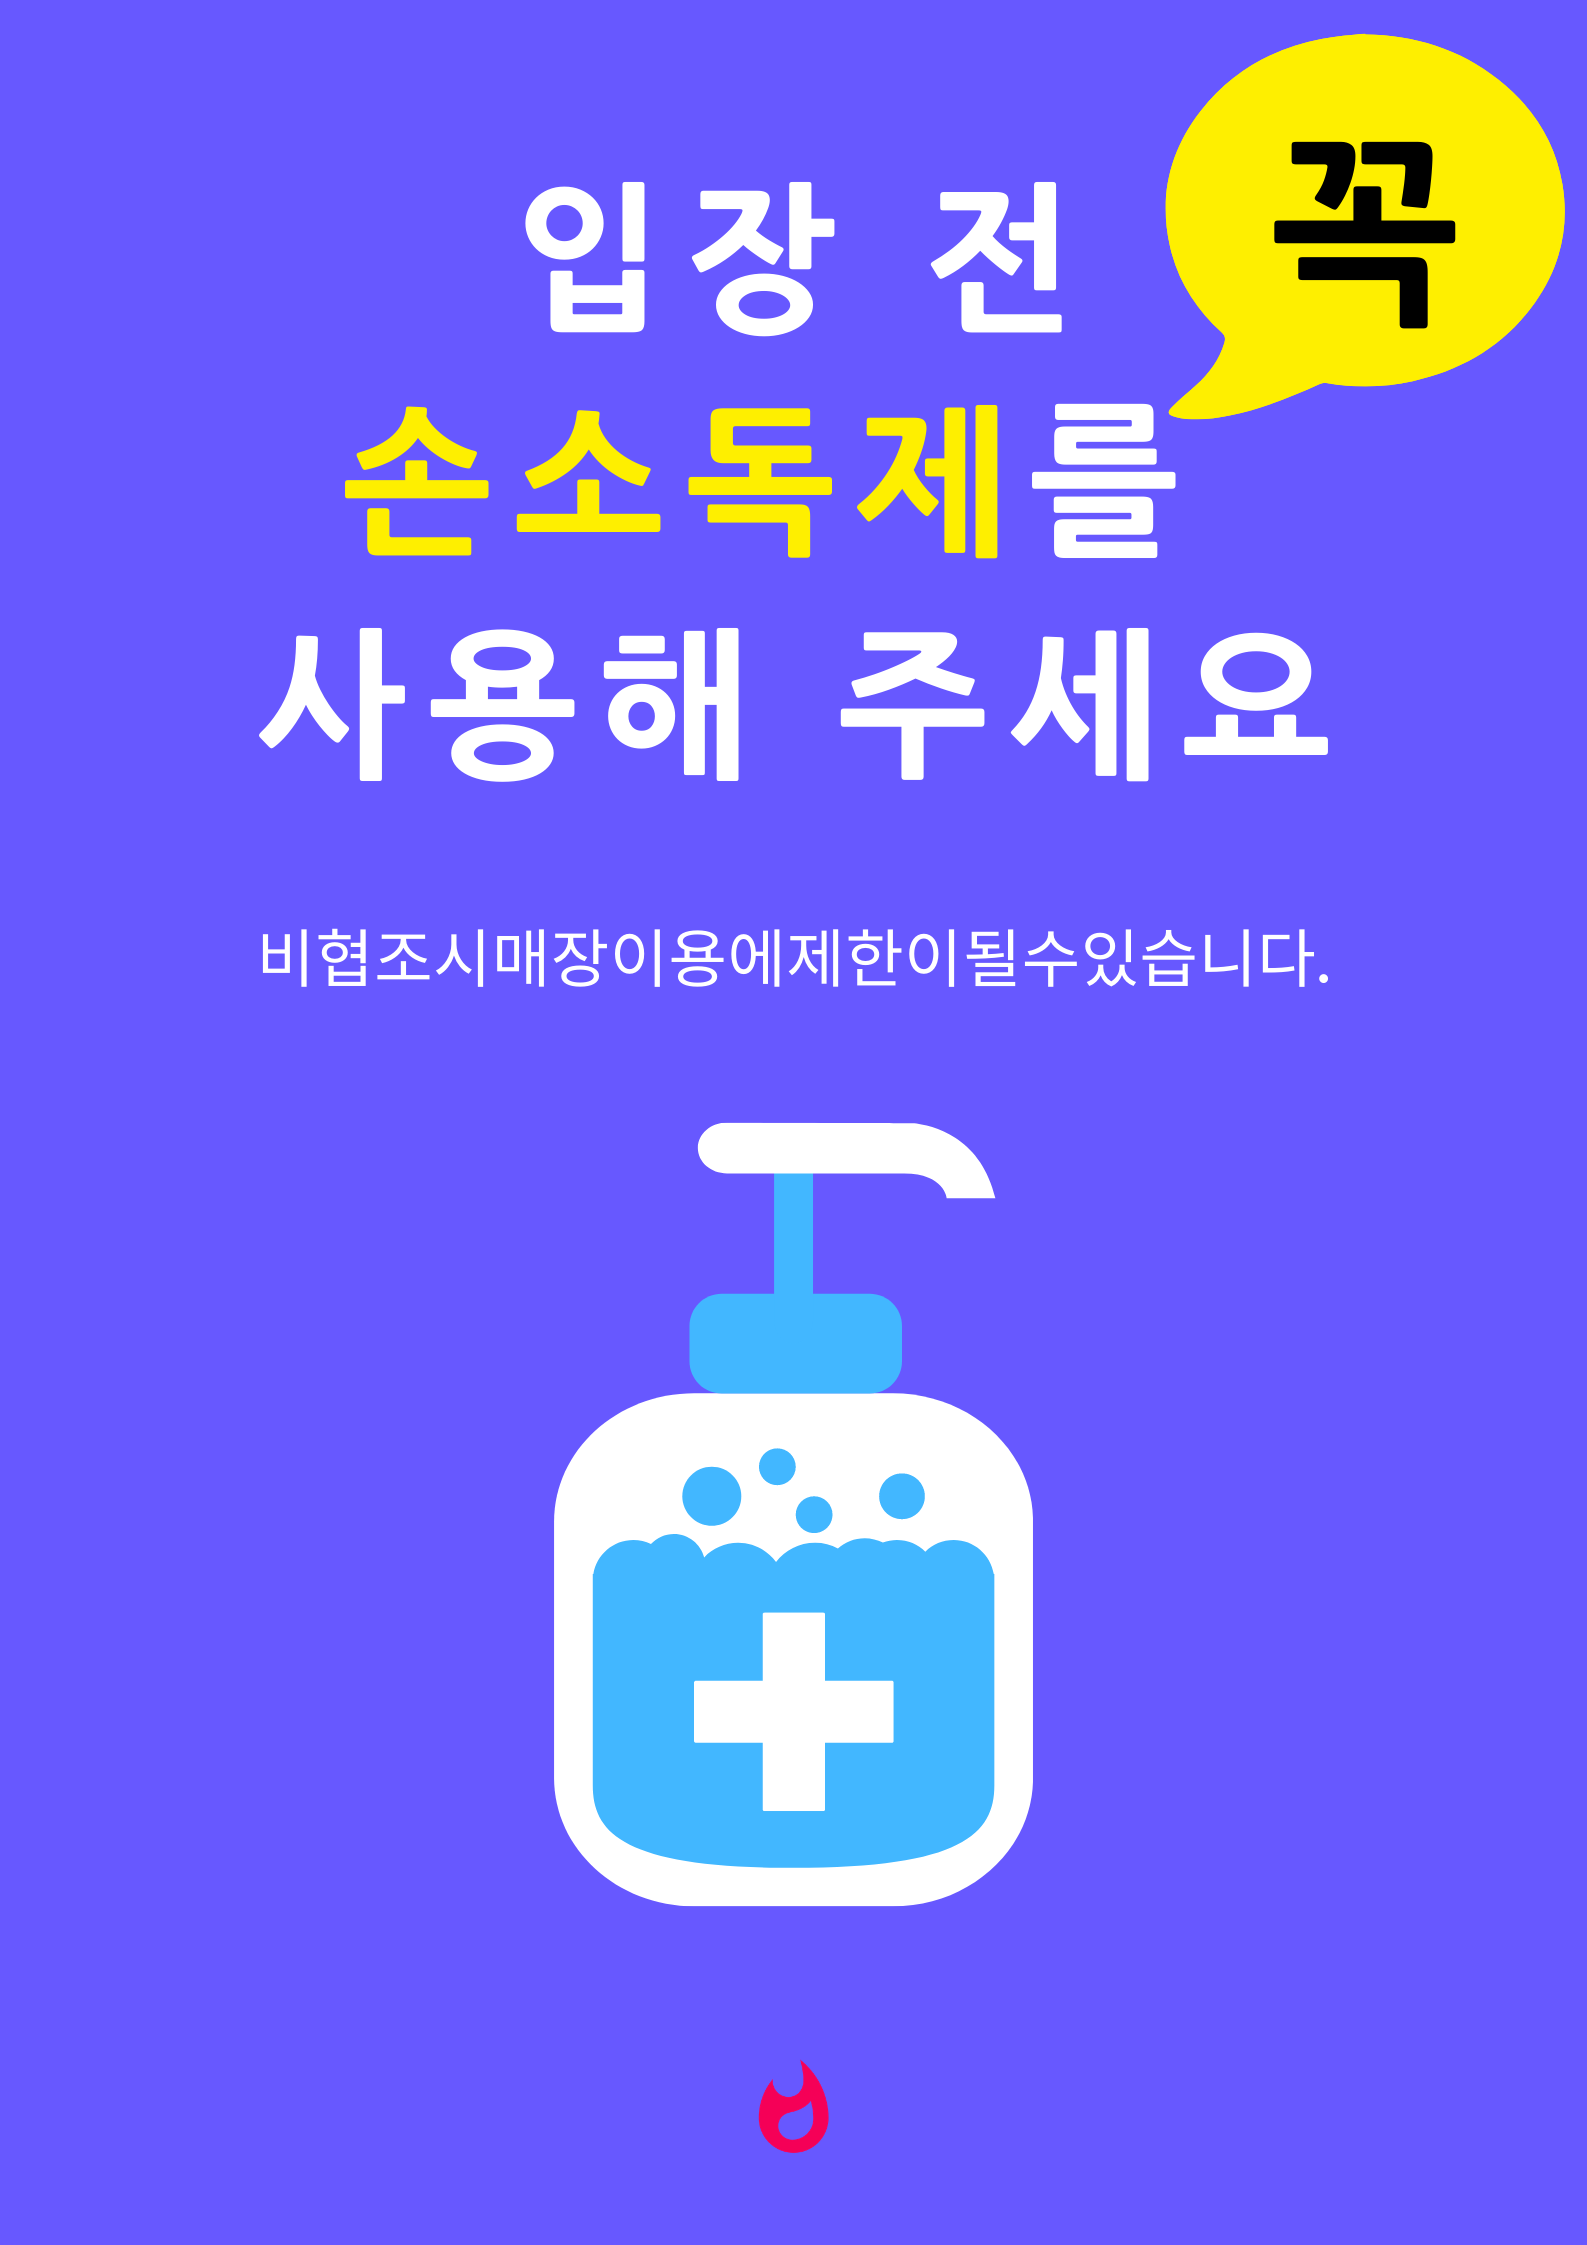
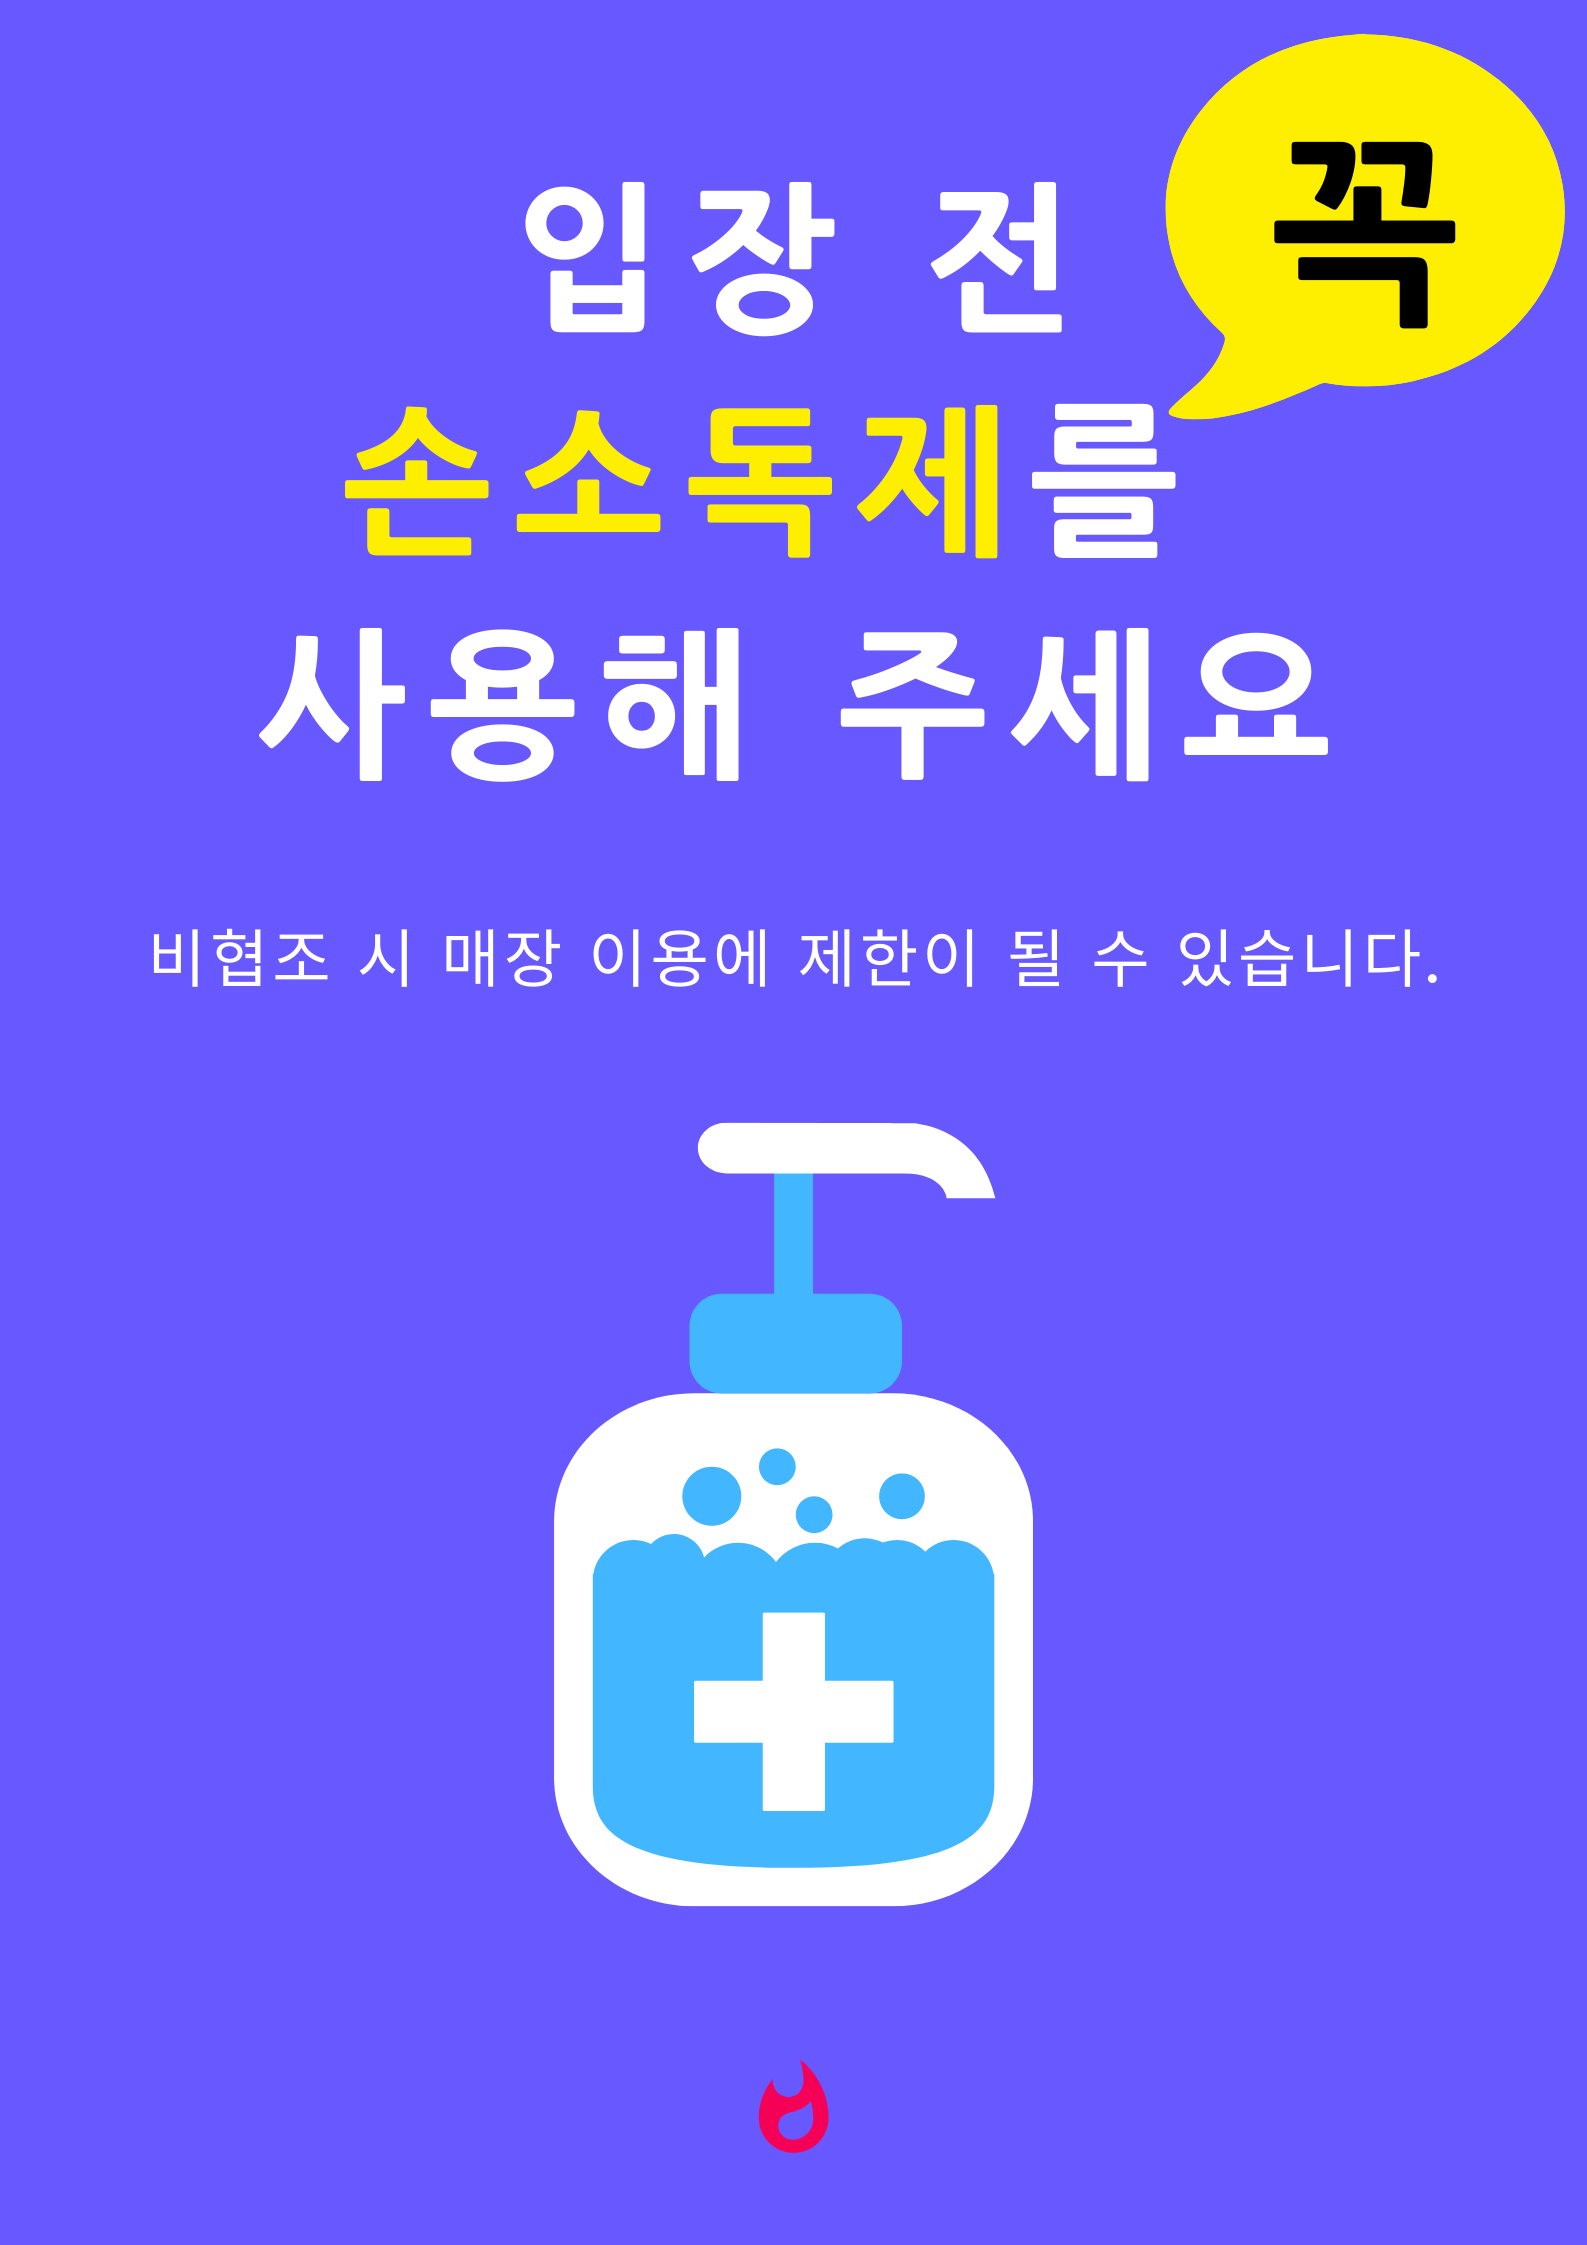
Added description to forms

Changed region(s): [[0.0926, 0.4053, 0.8954, 0.4365]]

diff --git a/src/components/Website/MiscPages/Forms.js b/src/components/Website/MiscPages/Forms.js
@@ -71,25 +71,25 @@ const cards = [
     poster: `${distancingImg}`,
     link: `${DistancingPDF}`,
     title: '슬기로운 거리두기',
-    description: 'Est aute sunt ad enim cillum nostrud incididunt officia eu.',
+    description: '코로나19시대에 거리두기는 우리를 더 강하게 만듭니다.',
   },
   {
     poster: `${howToUseImg}`,
     link: `${HowToUsePDF}`,
     title: '올바른 마스크 스타일',
-    description: 'Est aute sunt ad enim cillum nostrud incididunt officia eu.',
+    description: '올바른 마스크 사용방법으로 모두 건강하게 지내요.',
   },
   {
     poster: `${santizerImg}`,
     link: `${SanitizerPDF}`,
     title: '소독제 사용',
-    description: 'Est aute sunt ad enim cillum nostrud incididunt officia eu.',
+    description: '입장 전 꼭 손 소독제를 사용해 주세요.',
   },
   {
     poster: `${useMaskImg}`,
     link: `${UseMaskPDF}`,
     title: '마스크 사용',
-    description: 'Est aute sunt ad enim cillum nostrud incididunt officia eu.',
+    description: '마스크를 쓴 당신 더 멋있습니다.',
   },
 ];
 
